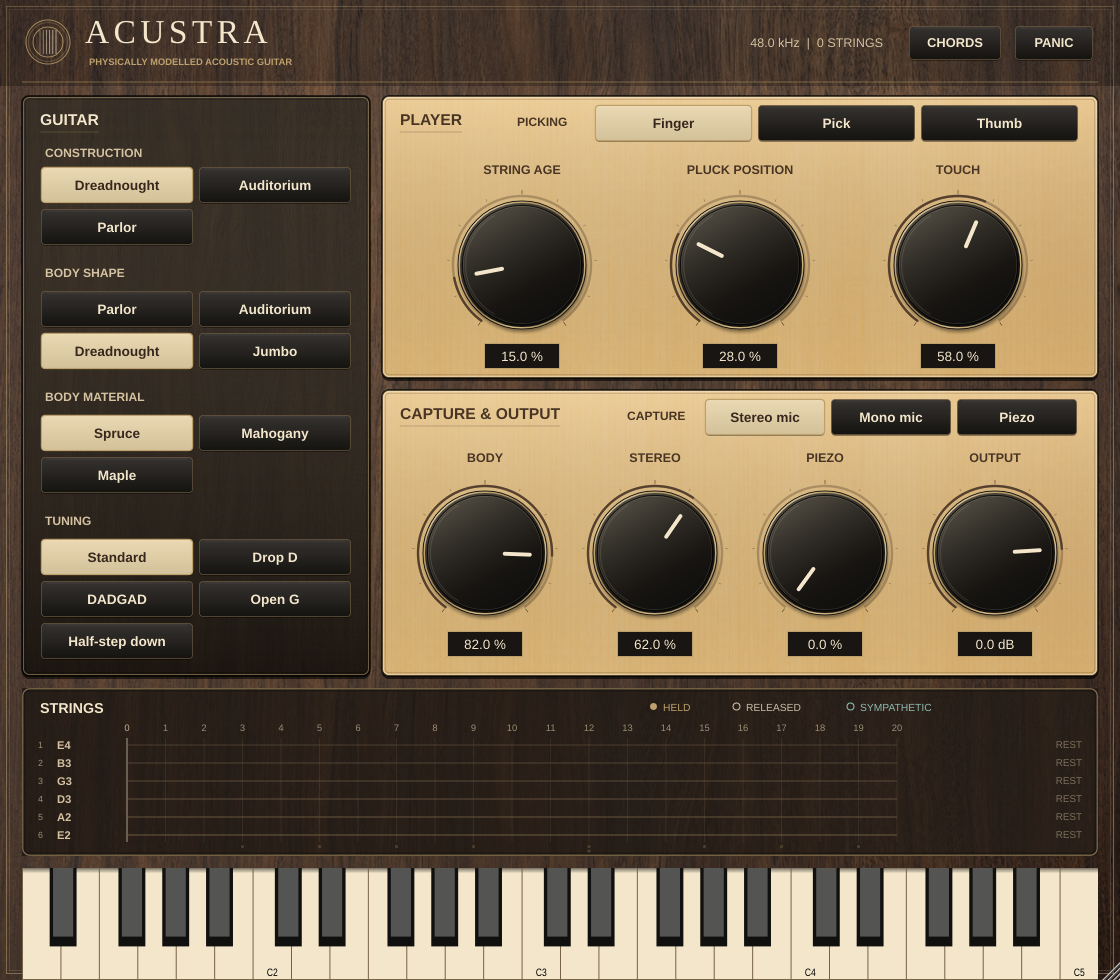
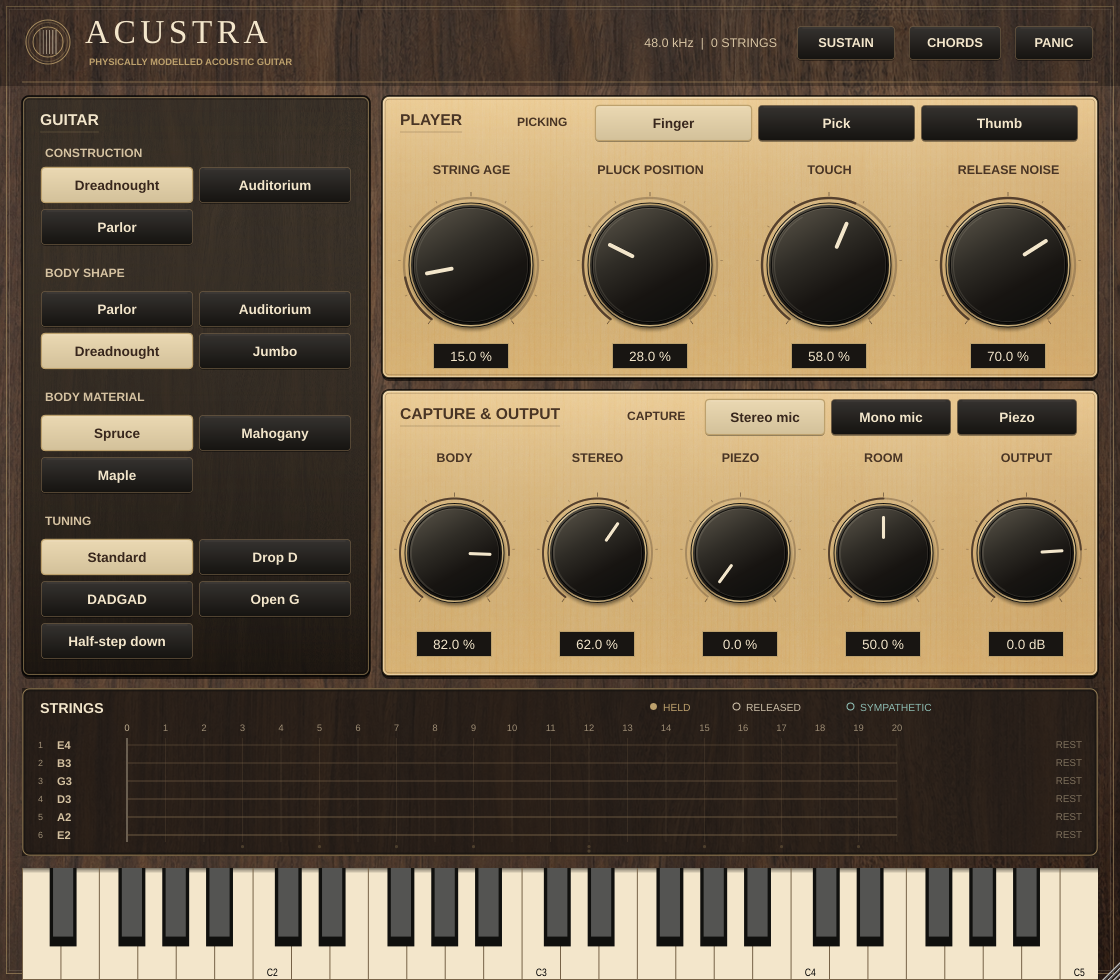
docs: paint the editor screenshot from a snapshot tool
AcustraEditorSnapshot (Tools/EditorSnapshot.cpp) paints the editor off
screen at its design size to a PNG, so the README's screenshot follows a
layout change without a host; it now shows the Sustain switch and the
nine knobs.

Claude-Session: https://claude.ai/code/session_01C6Srgd4X69dmmBBSJ769Mz

Changed region(s): [[0.3438, 0.1531, 0.9688, 0.398], [0.3438, 0.4592, 0.9688, 0.6735], [0.625, 0.0306, 0.8125, 0.0612]]

diff --git a/Tools/EditorSnapshot.cpp b/Tools/EditorSnapshot.cpp
@@ -1,0 +1,55 @@
+// Renders the plug-in editor, as it opens for a new instance, to a PNG: the
+// README's screenshot (Docs/screenshots/acustra-standalone.png) and a way to
+// look at a layout change without a host. The editor is painted off screen
+// at its design size, so no window is opened; on Linux the fonts still need
+// a display, which xvfb-run provides.
+//
+//   AcustraEditorSnapshot OUTPUT.png [WIDTH]
+//
+// WIDTH scales the editor at its fixed aspect ratio; the default is the
+// design width the editor opens at.
+#include "PluginEditor.h"
+#include "PluginProcessor.h"
+
+#include <cstdio>
+#include <memory>
+
+int main(int argc, char** argv)
+{
+    if (argc < 2 || argc > 3)
+    {
+        std::fprintf(stderr, "usage: AcustraEditorSnapshot OUTPUT.png [WIDTH]\n");
+        return 2;
+    }
+    juce::ScopedJuceInitialiser_GUI gui;
+    auto processor = std::make_unique<AcustraAudioProcessor>();
+    processor->prepareToPlay(48000.0, 256);
+    std::unique_ptr<juce::AudioProcessorEditor> editor { processor->createEditor() };
+    if (editor == nullptr)
+    {
+        std::fprintf(stderr, "the processor has no editor\n");
+        return 1;
+    }
+    if (argc == 3)
+    {
+        const int width = juce::String(argv[2]).getIntValue();
+        if (width > 0)
+            editor->setSize(width, juce::roundToInt(
+                static_cast<float>(width) * static_cast<float>(editor->getHeight())
+                / static_cast<float>(editor->getWidth())));
+    }
+    // The status line and construction switches follow the editor's timer.
+    juce::Timer::callPendingTimersSynchronously();
+    const auto image = editor->createComponentSnapshot(editor->getLocalBounds(), false, 1.0f);
+    const juce::File output = juce::File::getCurrentWorkingDirectory().getChildFile(argv[1]);
+    output.deleteFile();
+    juce::FileOutputStream stream(output);
+    if (! stream.openedOk() || ! juce::PNGImageFormat().writeImageToStream(image, stream))
+    {
+        std::fprintf(stderr, "could not write %s\n", output.getFullPathName().toRawUTF8());
+        return 1;
+    }
+    std::printf("wrote %s (%d x %d)\n", output.getFullPathName().toRawUTF8(),
+                image.getWidth(), image.getHeight());
+    return 0;
+}

diff --git a/README.md b/README.md
@@ -2972,7 +2972,9 @@ set without it.
   only; the Player panel now holds four knobs (String Age, Pluck Position,
   Touch, Release Noise) and Capture & Output five (Body, Stereo, Piezo,
   Room, Output), on the same grid. Parameters, defaults and saved states
-  are unchanged.
+  are unchanged. The screenshot above is painted by the new
+  `AcustraEditorSnapshot` (Tools/EditorSnapshot.cpp), the editor off screen
+  at its design size, so a layout change can be looked at without a host.
 - **Gather Chords no longer loses key-ups or regroups them.** A full
   gathering queue dropped whatever arrived next, a Note Off, pedal-up or
   All Notes Off included, and the string stayed held for ever; it now drops
